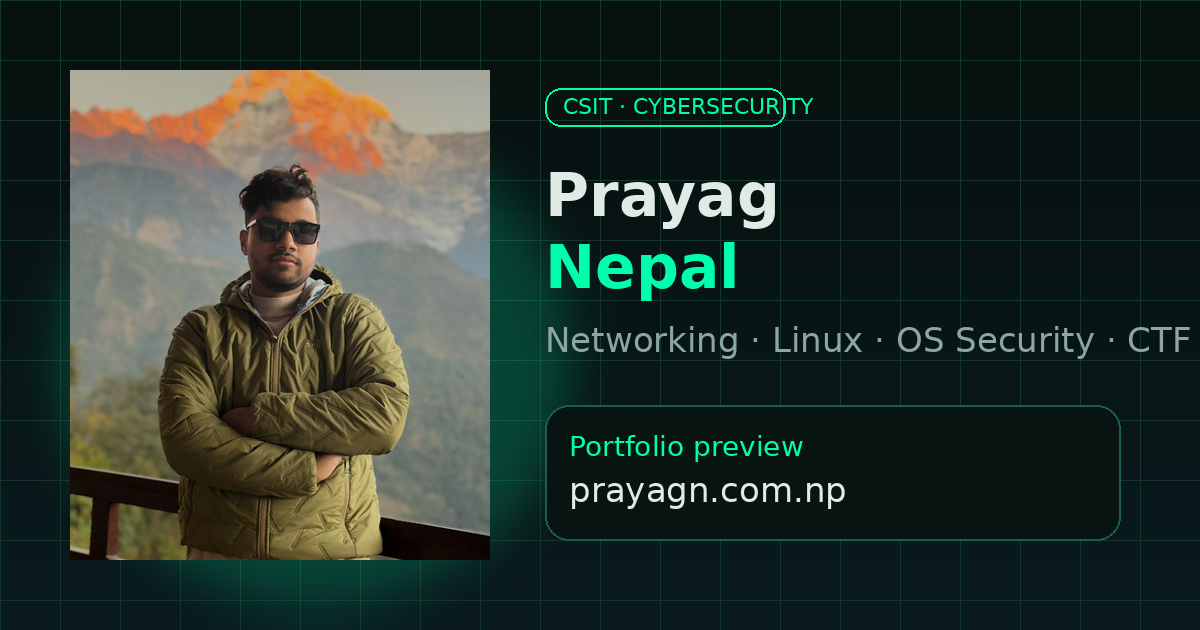
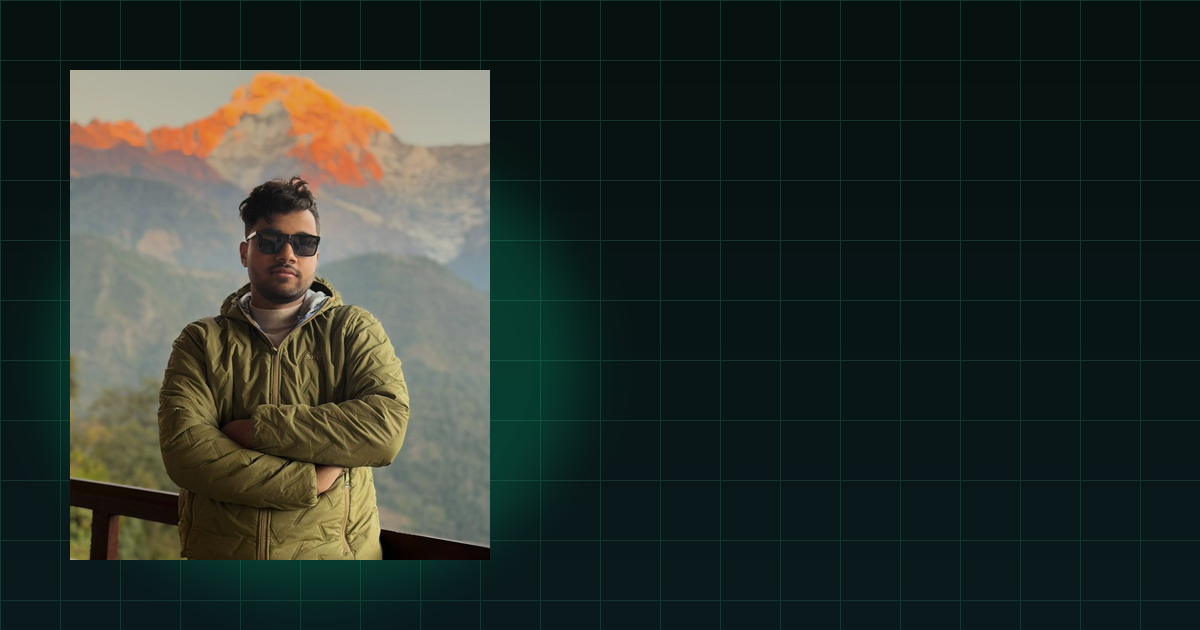
Fixing image OG 1

diff --git a/index.html b/index.html
@@ -4,12 +4,12 @@
   <meta charset="UTF-8" />
   <meta name="viewport" content="width=device-width, initial-scale=1.0" />
   <title>Prayag | CSIT & Cybersecurity</title>
-  <meta name="description" content="Prayag's CSIT and cybersecurity portfolio featuring projects, certifications, daily cyber insights, and learning progress." />
+  <meta name="description" content="Prayag's CSIT and cybersecurity portfolio featuring projects, certifications, daily cyber insights, learning progress, and practical networking and Linux work." />
   <link rel="canonical" href="https://prayagn.com.np/" />
   <meta property="og:type" content="website" />
   <meta property="og:site_name" content="Prayag | CSIT & Cybersecurity" />
   <meta property="og:title" content="Prayag | CSIT & Cybersecurity" />
-  <meta property="og:description" content="CSIT student portfolio focused on networking, Linux, OS internals, and cybersecurity projects." />
+  <meta property="og:description" content="CSIT student portfolio focused on networking, Linux, OS internals, cybersecurity projects, and hands-on learning progress." />
   <meta property="og:url" content="https://prayagn.com.np/" />
   <meta property="og:image" content="https://prayagn.com.np/assets/images/og-preview.png" />
   <meta property="og:image:width" content="1200" />
@@ -18,7 +18,7 @@
   <meta property="og:locale" content="en_US" />
   <meta name="twitter:card" content="summary_large_image" />
   <meta name="twitter:title" content="Prayag | CSIT & Cybersecurity" />
-  <meta name="twitter:description" content="CSIT student portfolio focused on networking, Linux, OS internals, and cybersecurity projects." />
+  <meta name="twitter:description" content="CSIT student portfolio focused on networking, Linux, OS internals, cybersecurity projects, and hands-on learning progress." />
   <meta name="twitter:image" content="https://prayagn.com.np/assets/images/og-preview.png" />
   <link rel="stylesheet" href="style.css" />
   <link rel="preconnect" href="https://fonts.googleapis.com" />
